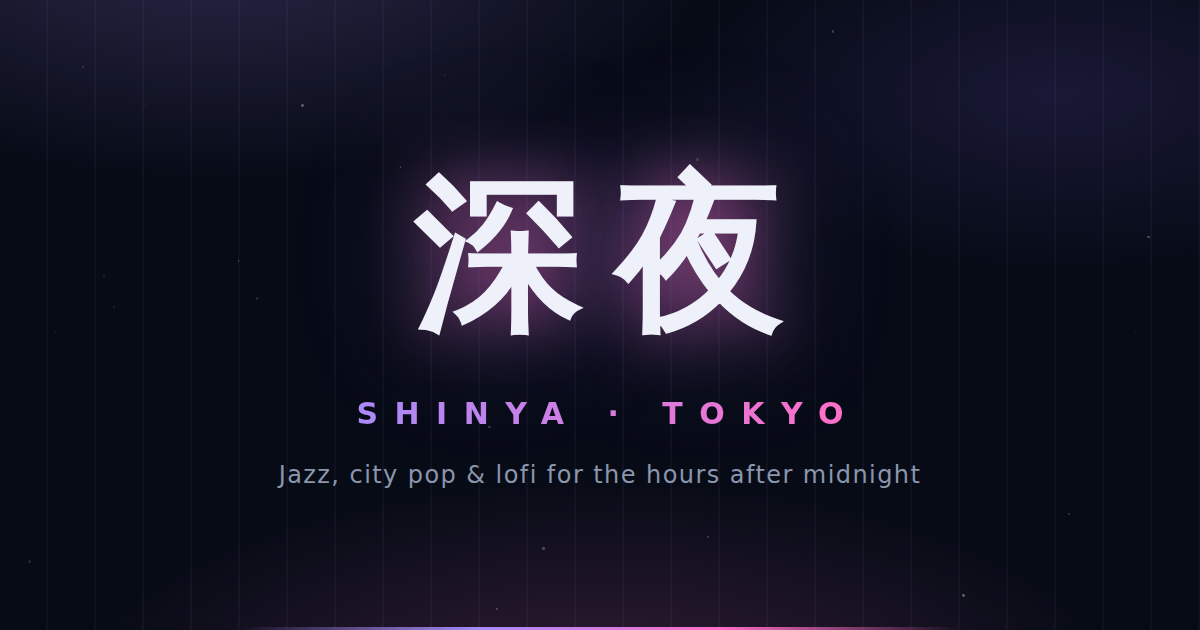
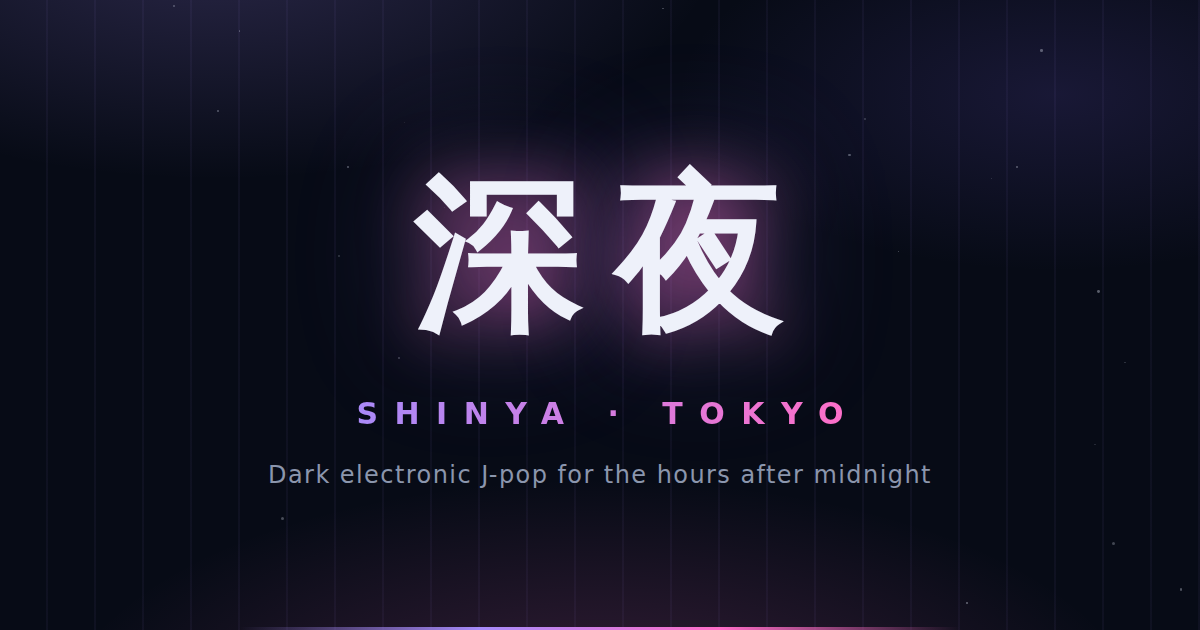
Shift site copy to the dark electronic J-pop concept
- Taglines, meta descriptions, RSS description, and OG image updated
  from jazz/city-pop/lofi to dark electronic J-pop
- About page scenes rewritten to the album's world: a streetlight in
  the rain (2AM), the convenience store window (3AM), the last platform
  (4AM), each tied to a track title, in all three locales
- Home Tonight's Mood card becomes Tonight's Track — rotates daily
  through the seven singles from releases.json instead of a hardcoded
  genre list, linking to the Music page

Claude-Session: https://claude.ai/code/session_0148GDLR2bvkyD5vaGAo23hT

Changed region(s): [[0.2158, 0.7238, 0.7708, 0.7841]]

diff --git a/src/i18n/ui.ts b/src/i18n/ui.ts
@@ -7,9 +7,9 @@ export const ui = {
     'nav.blog': 'Blog',
     'nav.about': 'About',
     'nav.links': 'Links',
-    'hero.tagline': 'Jazz, city pop & lofi for the hours after midnight.',
+    'hero.tagline': 'Dark electronic J-pop for the hours after midnight.',
     'btn.youtube': 'YouTube Channel',
-    'section.mood': "Tonight's Mood",
+    'section.mood': "Tonight's Track",
     'section.latest': 'Latest',
     'section.blog': 'From the Blog',
     'section.video': 'Latest Video',
@@ -33,9 +33,9 @@ export const ui = {
     'nav.blog': '블로그',
     'nav.about': '소개',
     'nav.links': '링크',
-    'hero.tagline': '자정 이후의 시간을 위한 재즈, 시티팝, 로파이.',
+    'hero.tagline': '자정 이후의 시간을 위한 다크 일렉트로닉 J-POP.',
     'btn.youtube': '유튜브 채널',
-    'section.mood': '오늘 밤의 무드',
+    'section.mood': '오늘 밤의 한 곡',
     'section.latest': '최신 릴리스',
     'section.blog': '블로그 최신 글',
     'section.video': '최신 영상',
@@ -59,9 +59,9 @@ export const ui = {
     'nav.blog': 'ブログ',
     'nav.about': 'アバウト',
     'nav.links': 'リンク',
-    'hero.tagline': '真夜中過ぎの時間のためのジャズ、シティポップ、ローファイ。',
+    'hero.tagline': '真夜中過ぎのためのダークエレクトロニックJ-POP。',
     'btn.youtube': 'YouTubeチャンネル',
-    'section.mood': '今夜のムード',
+    'section.mood': '今夜の一曲',
     'section.latest': '最新リリース',
     'section.blog': 'ブログ最新記事',
     'section.video': '最新動画',

diff --git a/src/pages/rss.xml.js b/src/pages/rss.xml.js
@@ -8,7 +8,7 @@ export async function GET(context) {
   const base = import.meta.env.BASE_URL.replace(/\/$/, '');
   return rss({
     title: 'SHINYA / 深夜 — Blog',
-    description: 'Notes on jazz, city pop and lofi for the hours after midnight.',
+    description: 'Notes from SHINYA — dark electronic J-pop for the hours after midnight.',
     site: context.site,
     items: posts.map((post) => ({
       title: post.data.title,
